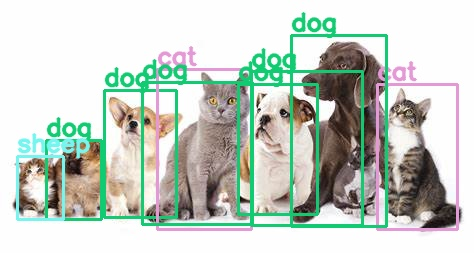
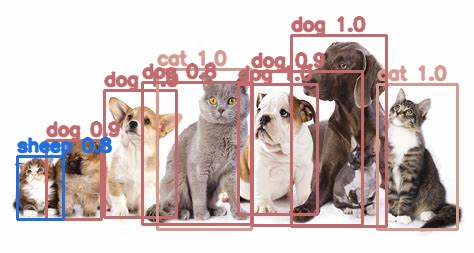
Include .jpg files in the github repository

Changed region(s): [[0.0295, 0.0277, 0.9747, 0.913]]

diff --git a/test_individual_image.py b/test_individual_image.py
@@ -4,12 +4,14 @@ import os
 import cv2
 from PIL import Image as PILImage
 import numpy as np
+import torch
 from torchvision import transforms as transforms
 import matplotlib.pyplot as plt
 os.environ['KMP_DUPLICATE_LIB_OK']='True'
+
 ''' Code adapted from 
 https://colab.research.google.com/drive/1eAUjzV3nZXkUXi0spPg6zUHtJWaUSzFk?usp=sharing#scrollTo=8Dbx7HZFIKhz '''
-''' I got better results using the PILImage library.
+''' I got better results using the PILImage library to convert the image to a tensor.
     In order to annotate the image I had to use the cv2 library'''
 
 
@@ -19,28 +21,34 @@ def individual_image(fasterrcnn_model, t_image, img, path):
     print(prediction)
     boxes = prediction[0]["boxes"]
     labels = prediction[0]["labels"]
+    scores = torch.round(prediction[0]["scores"] * 10) / 10
 
     # this will help us create a different colour for each class
     COLOURS = np.random.uniform(0, 255, size=(Hyper.num_classes, 3))
     img = cv2.cvtColor(img, cv2.COLOR_BGR2RGB)
-    for i, box in enumerate(boxes):
-        label_index = labels[i]
-        text = Hyper.pascal_categories[label_index]
-        color = COLOURS[labels[i]]
-        cv2.rectangle(
-            img,
-            (int(box[0]), int(box[1])),
-            (int(box[2]), int(box[3])),
-            color, 2
-        )
-        cv2.putText(img, text, (int(box[0]), int(box[1]-5)),
-                    cv2.FONT_HERSHEY_SIMPLEX, 0.8, color, 2,
-                    lineType=cv2.LINE_AA)
+    for j in range(2):
+        for i, box in enumerate(boxes):
+            label_index = labels[i]
+            score = str(scores[i].item())[0:3]
+            if j == 0:
+                text = f"{Hyper.pascal_categories[label_index]}"
+            else:
+                text = f"{Hyper.pascal_categories[label_index]} {score}"
+            color = COLOURS[labels[i]]
+            cv2.rectangle(
+                img,
+                (int(box[0]), int(box[1])),
+                (int(box[2]), int(box[3])),
+                color, 2
+            )
+            cv2.putText(img, text, (int(box[0]), int(box[1]-5)),
+                        cv2.FONT_HERSHEY_SIMPLEX, 0.5, color, 1,
+                        lineType=cv2.LINE_AA)
 
-    file_bb = path.replace(".jpg", "_out.jpg")
-    print(f"output file {file_bb}")
-    cv2.imwrite(file_bb, img)
-    print("** Image saved, the end **")
+        file_bb = path.replace(".jpg", f"_out{j}.jpg")
+        print(f"output file {file_bb}")
+        cv2.imwrite(file_bb, img)
+    print("** Images saved, the end **")
 
 
 # this is same transform used in the dataloader code.
@@ -63,7 +71,9 @@ def get_image(file):
 
 
 if __name__ == "__main__":
-    t_image_, img_, path_ = get_image("cats_and_dogs.jpg")
+    # aeroplane_with_persons.jpg
+    # cats_and_dogs.jpg
+    t_image_, img_, path_ = get_image("aeroplane_with_persons.jpg")
     epoch = Hyper.total_epochs
     model = load_checkpoint(epoch)
     individual_image(model, t_image_, img_, path_)
